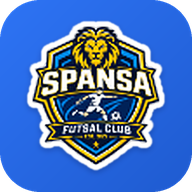
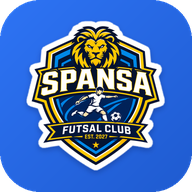
Add files via upload

diff --git a/public/sw.js b/public/sw.js
@@ -1,4 +1,4 @@
-const CACHE = 'sfc-shell-v5';
+const CACHE = 'sfc-shell-v6';
 self.addEventListener('install', () => { self.skipWaiting(); });
 self.addEventListener('activate', (e) => {
   e.waitUntil(caches.keys().then((keys) => Promise.all(keys.filter((k) => k !== CACHE).map((k) => caches.delete(k)))).then(() => self.clients.claim()));

diff --git a/PANDUAN.md b/PANDUAN.md
@@ -128,3 +128,8 @@ Hak akses (Security Rules): admin penuh; anggota hanya membaca data dirinya (ang
 ## Pembaruan v10 — logo ikon diperbesar
 - Logo pada semua ikon aplikasi diperbesar menjadi 110% dari ukuran sebelumnya (list putih tetap). Versi maskable Android diuji tetap berada di dalam zona aman sehingga tidak terpotong pada ikon bulat/squircle.
 - Hapus aplikasi yang sudah terpasang lalu pasang ulang agar ikon baru tampil.
+
+## Pembaruan v11 — ikon dari logo asli (tidak pecah)
+- Semua ikon kini dibuat dari file logo asli beresolusi tinggi (`public/logo-spansa.png`, 1268×1240 px, latar transparan), bukan lagi dari gambar kecil yang diperbesar. Tulisan "FUTSAL CLUB", "EST. 2027", dan detail singa tampil tajam, termasuk di layar pembuka (splash).
+- Ukuran ikon: 192, 384, 512, 1024 px (bentuk kotak membulat) + maskable 192/512 untuk Android + apple-touch-icon + favicon.
+- Hapus aplikasi yang sudah terpasang lalu pasang ulang agar ikon dan layar pembuka baru tampil. Di Android, layar pembuka diambil dari ikon saat aplikasi dipasang sehingga ikon lama tidak berganti sebelum dipasang ulang.
